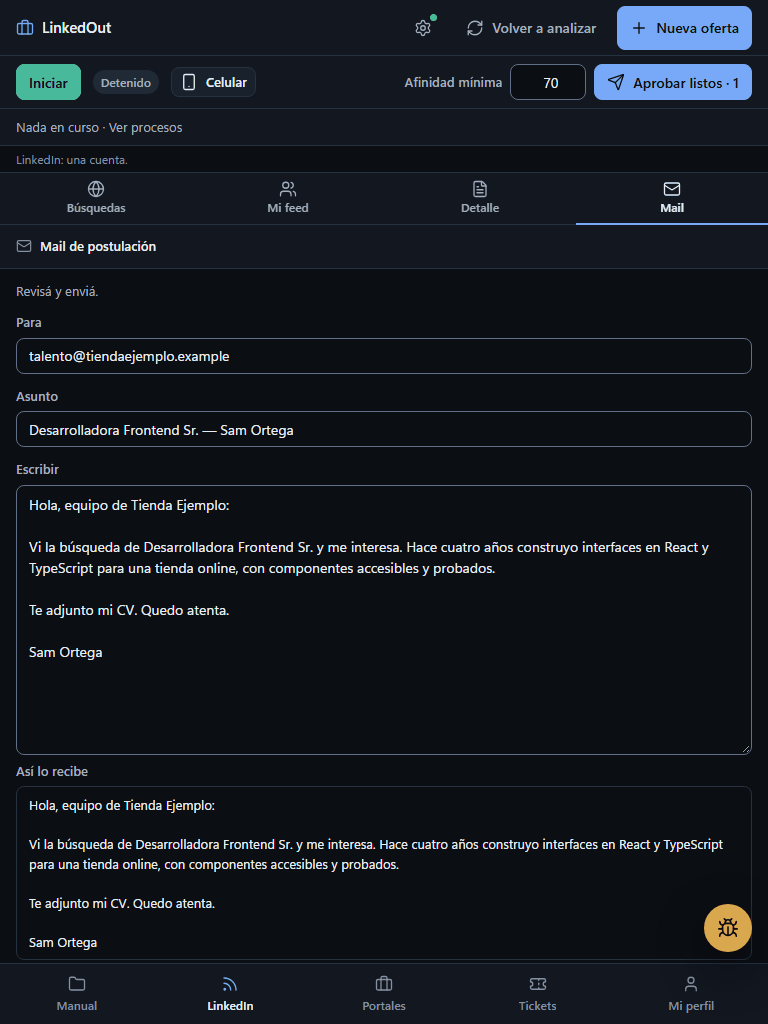
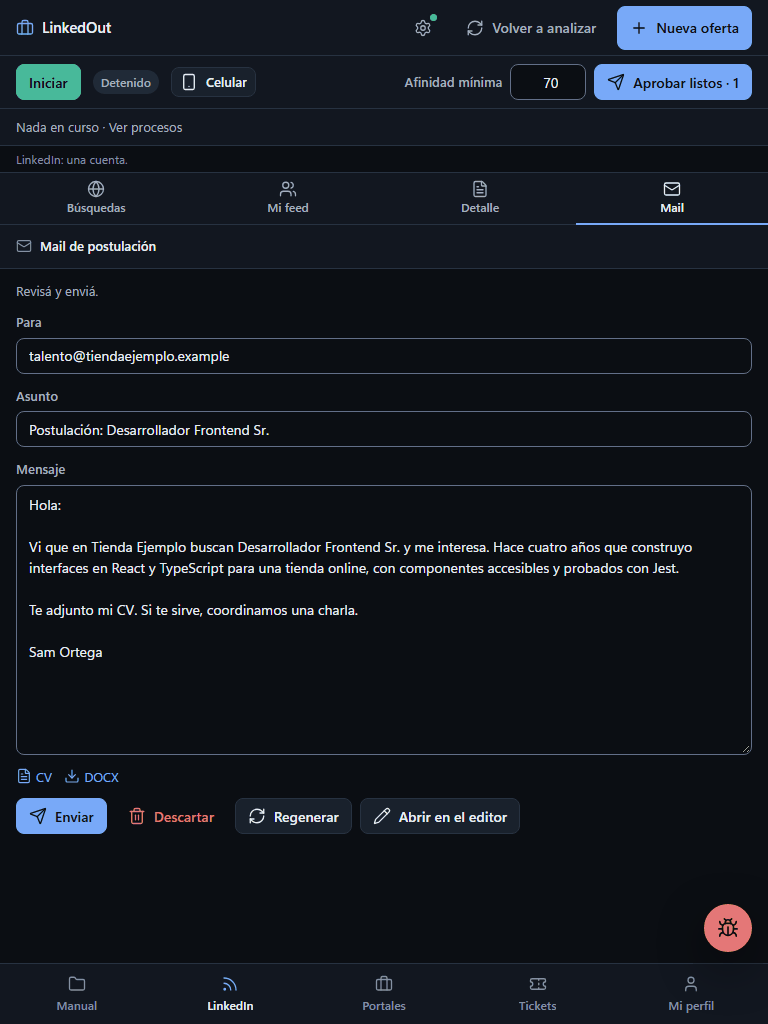
fix(ui): quita «Así lo recibe» y ajusta ejemplos

diff --git a/static/radar.js b/static/radar.js
@@ -2888,8 +2888,6 @@
     ocultar('radarDestinoCanalWrap', correo);
     const titulo = $('radarEmailTitulo');
     if (titulo) titulo.textContent = correo ? 'Mail de postulación' : 'Mensaje de postulación';
-    const etCuerpo = $('radarCuerpoLabel');
-    if (etCuerpo) etCuerpo.textContent = correo ? 'Escribir' : 'Mensaje';
     const destino = $('radarDestinoCanal');
     if (destino) {
       destino.textContent = `${iconoCanal(p.canal)} ${nombreCanal(p.canal)}` +
@@ -2942,7 +2940,6 @@
       $('radarEmailBody').value = p.email_body || '';
       S.revisionVista = { id: p.id, updated_at: p.updated_at };
     }
-    renderVistaPrevia(correo ? ($('radarEmailBody').value || '') : '');
     CAMPOS_EMAIL.forEach((id) => { $(id).disabled = !acc.editable; });
     renderCanal(p, correo);
 
@@ -3331,41 +3328,6 @@
   }
 
   /** Copia el texto actual del mensaje (tras guardar lo pendiente) al portapapeles. */
-  /** Vista previa del mail como lo recibe el reclutador: el teléfono de la firma linkeado a wa.me y la
-   *  línea «LinkedIn» al perfil (lo mismo que arma `email_html` al enviar). Solo DOM, sin innerHTML. */
-  function renderVistaPrevia(texto) {
-    const caja = $('radarEmailPreviewBox');
-    const destino = $('radarEmailPreview');
-    if (!caja || !destino) return;
-    destino.textContent = '';
-    caja.hidden = !texto;
-    if (!texto) return;
-    const f = S.estado.firma || {};
-    const sinBarra = (u) => String(u || '').trim().toLowerCase().replace(/^https?:\/\/(www\.)?/, '').replace(/\/+$/, '');
-    const link = (href, etiqueta) => {
-      const a = document.createElement('a');
-      a.href = href;
-      a.textContent = etiqueta;
-      a.target = '_blank';
-      a.rel = 'noopener noreferrer';
-      a.className = 'enlace';
-      return a;
-    };
-    texto.split('\n').forEach((linea, i) => {
-      if (i) destino.appendChild(document.createTextNode('\n'));
-      const limpia = linea.trim();
-      const esUrl = limpia.startsWith('http');
-      if (f.telefono && (limpia === f.telefono || (esUrl && sinBarra(limpia) === sinBarra(f.wa_me)))) {
-        destino.appendChild(link(f.wa_me, f.telefono));
-      } else if (f.linkedin && (limpia.toLowerCase() === String(f.etiqueta || 'LinkedIn').toLowerCase()
-                 || (esUrl && sinBarra(limpia) === sinBarra(f.linkedin)))) {
-        destino.appendChild(link(f.linkedin, f.etiqueta || 'LinkedIn'));
-      } else {
-        destino.appendChild(document.createTextNode(linea));
-      }
-    });
-  }
-
   async function copiarMensaje() {
     await flushEdicion();
     const texto = ($('radarEmailBody') || {}).value || '';
@@ -4204,10 +4166,7 @@
     // `input` (con debounce) además de `change`: Safari no siempre dispara `change` antes del clic en Aprobar
     ['input', 'change'].forEach((ev) => $('radarEmailTo').addEventListener(ev, (e) => programarEdicion('email_to', e.target.value)));
     $('radarEmailSubject').addEventListener('input', (e) => programarEdicion('email_subject', e.target.value));
-    $('radarEmailBody').addEventListener('input', (e) => {
-      programarEdicion('email_body', e.target.value);
-      renderVistaPrevia(S.detalle && esEmail(S.detalle) ? e.target.value : '');
-    });
+    $('radarEmailBody').addEventListener('input', (e) => programarEdicion('email_body', e.target.value));
 
     const conBoton = (id, fn) => $(id).addEventListener('click', (e) => ejecutar(e.currentTarget, () => fn()));
     conBoton('radarAprobarBtn', () => aprobar(false));
@@ -4350,7 +4309,7 @@
     onPostRemoved,
     onProgreso,
     mostrar,
-    _test: { S, textoAvisoPausa, filtrosActivos, quitarFiltro, postularIgual, marcarDescarte, enlazarEventos, desgloseAfinidad, resumenAfinidad, crearCard, ciclarRequisito, onProgreso, htmlProgreso, programarEdicion, flushEdicion, aprobar, aprobarTodos, datosAprobacion, idsMarcados, actualizarConteoAprobar, cerrarAprobar, pulsarFondoAprobar, clicFondoAprobar, descartar, restaurar, reintentar, marcarPostulado, abrirDestino, upsertCard, renderEmail, renderCanal, renderVistaPrevia, renderAvisoCuota, textoVacio, itemRevision, textoCola, renderCola, onPost, renderDetalle, lineaPasos, textoTopes, textoCuotaProceso, filaProceso, sembrarProgreso, abrirProcesos, cerrarProcesos, cargarProcesos, perteneceAlModo, aplicarModo, filaHistorial, cargarHistorial, cargarPosts, textoEstadoCv, alternarAnalisis, alternarGeneracion, renderInterruptores, alternarInterruptor, textoPausaBusquedas, levantarBloqueo },
+    _test: { S, textoAvisoPausa, filtrosActivos, quitarFiltro, postularIgual, marcarDescarte, enlazarEventos, desgloseAfinidad, resumenAfinidad, crearCard, ciclarRequisito, onProgreso, htmlProgreso, programarEdicion, flushEdicion, aprobar, aprobarTodos, datosAprobacion, idsMarcados, actualizarConteoAprobar, cerrarAprobar, pulsarFondoAprobar, clicFondoAprobar, descartar, restaurar, reintentar, marcarPostulado, abrirDestino, upsertCard, renderEmail, renderCanal, renderAvisoCuota, textoVacio, itemRevision, textoCola, renderCola, onPost, renderDetalle, lineaPasos, textoTopes, textoCuotaProceso, filaProceso, sembrarProgreso, abrirProcesos, cerrarProcesos, cargarProcesos, perteneceAlModo, aplicarModo, filaHistorial, cargarHistorial, cargarPosts, textoEstadoCv, alternarAnalisis, alternarGeneracion, renderInterruptores, alternarInterruptor, textoPausaBusquedas, levantarBloqueo },
     _portales: { modoDePost, coincidePortal, linkPostularSitio, logoPortal, botonPostularSitio, extrasDePortal },
     _util: { urlSegura, urlPublicacion, urlDestino, iconoCanal, nombreCanal, esEmail, accionesCanal, coincideFiltro, coincideAlcance, coincideCanal, etiquetaEstado, textoEstadoEmail, etiquetaAlcance, describirPill, accionesPara, mensajeDeDetalle, formatearCuenta, envioDudoso, textoPausaBusquedas },
   };

diff --git a/static/index.html b/static/index.html
@@ -719,12 +719,8 @@
               <input id="radarEmailSubject" type="text" class="input" />
             </div>
             <div class="field">
-              <label for="radarEmailBody" id="radarCuerpoLabel">Escribir</label>
+              <label for="radarEmailBody" id="radarCuerpoLabel">Mensaje</label>
               <textarea id="radarEmailBody" rows="12" class="textarea"></textarea>
-              <div id="radarEmailPreviewBox" hidden class="field">
-                <span class="label">Así lo recibe</span>
-                <div id="radarEmailPreview" class="vista-previa"></div>
-              </div>
             </div>
             <div class="mail-adjuntos">
               <a id="radarVerPdf" href="#" target="_blank" rel="noopener noreferrer" hidden title="CV adjunto (PDF)" class="enlace"><svg class="ico" aria-hidden="true"><use href="/static/iconos.svg#file-text"></use></svg>CV</a>
@@ -872,7 +868,7 @@
         <div id="form-manual" role="tabpanel" aria-labelledby="modalTab-manual" class="stack">
           <div class="field">
             <label for="nuevoTitulo">Puesto</label>
-            <input type="text" id="nuevoTitulo" placeholder="Ej. Desarrolladora frontend" class="input">
+            <input type="text" id="nuevoTitulo" placeholder="Ej. Desarrollador frontend" class="input">
           </div>
           <div class="field">
             <label for="nuevaEmpresa">Empresa</label>

diff --git a/static/css/radar.css b/static/css/radar.css
@@ -212,10 +212,6 @@ button.req-estado:hover { background: var(--bg-hover); }
 .mail-estado { margin: 0; line-height: var(--lh-normal); color: var(--text-secondary); }
 .mail-destino { margin: 0; color: var(--text-primary); overflow-wrap: anywhere; }
 .mail .textarea { min-height: 220px; }
-.vista-previa {
-  padding: var(--sp-2) var(--sp-3); border: 1px solid var(--border-subtle); border-radius: var(--radius-md);
-  background: var(--bg-canvas); white-space: pre-wrap; overflow-wrap: break-word; line-height: var(--lh-normal); color: var(--text-primary);
-}
 .mail-adjuntos { display: flex; flex-wrap: wrap; align-items: center; gap: var(--sp-2) var(--sp-3); }
 .mail-guardado { margin-left: auto; font-size: var(--fs-12); font-variant-numeric: tabular-nums; color: var(--text-muted); }
 .mail-acciones { display: flex; flex-wrap: wrap; align-items: center; gap: var(--sp-2); }

diff --git a/tools/capturas.py b/tools/capturas.py
@@ -89,7 +89,7 @@ def req(nombre, tipo, estado, justificacion):
             "justificacion": justificacion}
 
 OFERTAS = [
-    ("Desarrolladora Frontend Sr.", "Tienda Ejemplo", "LISTO", 86, "talento@tiendaejemplo.example", [
+    ("Desarrollador Frontend Sr.", "Tienda Ejemplo", "LISTO", 86, "talento@tiendaejemplo.example", [
         req("React", "REQUISITO_EXCLUYENTE", "MATCH_DIRECTO", "4 años en Estudio Ejemplo"),
         req("TypeScript", "REQUISITO_EXCLUYENTE", "MATCH_DIRECTO", "Componentes tipados"),
         req("Pruebas con Jest", "RESPONSABILIDAD", "MATCH_DIRECTO", "Componentes probados con Jest"),
@@ -101,10 +101,10 @@ OFERTAS = [
         req("PostgreSQL", "REQUISITO_EXCLUYENTE", "MATCH_DIRECTO", "Sitios de clientes"),
         req("Docker", "REQUISITO_DESEABLE", "BRECHA_REAL", "No figura")],
      ["Sumar a alguien que cubra front y back"]),
-    ("Desarrolladora Mobile Jr.", "Fintech Demo", "ENVIADO", 74, "jobs@fintechdemo.example", [
+    ("Mobile Developer Jr.", "Fintech Demo", "ENVIADO", 74, "jobs@fintechdemo.example", [
         req("React Native", "REQUISITO_EXCLUYENTE", "TRANSFERIBLE", "React en la web")],
      ["Primera app para celulares"]),
-    ("Diseñadora UX/UI", "Estudio Sur Ejemplo", "ANALIZADA", 64, "hola@estudiosur.example", [
+    ("Diseñador UX/UI", "Estudio Sur Ejemplo", "ANALIZADA", 64, "hola@estudiosur.example", [
         req("Figma", "REQUISITO_EXCLUYENTE", "MATCH_DIRECTO", "Maquetado desde Figma"),
         req("Investigación con usuarios", "REQUISITO_DESEABLE", "BRECHA_REAL", "No figura")],
      ["Ordenar el sistema de diseño"]),
@@ -123,17 +123,19 @@ for i, (puesto, empresa, estado, score, mail, requisitos, dolores) in enumerate(
         post_id = create_postulacion(puesto, empresa, texto, status="READY", origen="linkedin",
                                      radar_post_ref=f"urn:li:activity:{8100 + i}")
         update_postulacion(post_id, cv_markdown=CV, match_score=score, requisitos=json.dumps(requisitos))
-        campos.update(postulacion_id=post_id, email_to=mail, email_subject=f"{puesto} — Sam Ortega",
-                      email_body=(f"Hola, equipo de {empresa}:\n\nVi la búsqueda de {puesto} y me interesa. Hace "
-                                  "cuatro años construyo interfaces en React y TypeScript para una tienda online, "
-                                  "con componentes accesibles y probados.\n\nTe adjunto mi CV. Quedo atenta.\n\n"
-                                  "Sam Ortega"))
+        campos.update(postulacion_id=post_id, email_to=mail, email_subject=f"Postulación: {puesto}",
+                      email_body=(f"Hola:\n\nVi que en {empresa} buscan {puesto} y me interesa. Hace cuatro años "
+                                  "que construyo interfaces en React y TypeScript para una tienda online, con "
+                                  "componentes accesibles y probados con Jest.\n\nTe adjunto mi CV. Si te sirve, "
+                                  "coordinamos una charla.\n\nSam Ortega"))
     if estado == "ENVIADO":
         campos.update(sent_at="2026-11-18 10:30:00", aprobado_at="2026-11-18 10:29:00")
     radar_store.update_post(pid, **campos)
 # Una oferta cargada a mano (vista Manual y su editor), con análisis, revisión y CV
-manual = create_postulacion("Desarrolladora React (proyecto de 6 meses)", "Logística Ejemplo",
-                            "Buscamos Desarrolladora React para el panel de seguimiento de envíos.\n\nRequisitos:\n"
+manual = create_postulacion("Frontend Developer React", "Logística Ejemplo",
+                            "Buscamos Frontend Developer con React para el panel de seguimiento de envíos. "
+                            "Proyecto de 6 meses.\n\n"
+                            "Requisitos:\n"
                             "- React y TypeScript\n- Pruebas automatizadas\n- Deseable: mapas en la web",
                             status="READY", origen="manual")
 update_postulacion(manual, cv_markdown=CV, match_score=82,

diff --git a/core/radar_api.py b/core/radar_api.py
@@ -50,10 +50,8 @@ from core.descartes import motivos_descarte
 from core.strategist import calculate_match_score_with_breakdown
 from core.bridge import CUOTA, sondear_cuota
 from core.cv_guardas import FORMATOS_CV
-from core.email_composer import firma_links
 from core.mailer import load_gmail_config
 from core.paths import DATA_DIR
-from core.profile_parser import load_candidate_profile
 from core.radar import MOTIVO_NO_OFERTA, PRIORIDAD_FORZADA, pausa_busquedas
 from core.triage import ALCANCES, _senal_argentina
 
@@ -438,7 +436,7 @@ def _status(radar: Any = None) -> Dict[str, Any]:
     return {**radar_store.get_radar_state(), "gmail_configurado": gmail is not None,
             # Modo de prueba del mail (LINKEDOUT_MAIL_PRUEBA): solo si está activo, nunca la dirección
             "mail_prueba": bool(getattr(gmail, "mail_prueba", None)),
-            "revision_pendientes": revision_store.contar_pendientes(), "firma": _firma_links(),
+            "revision_pendientes": revision_store.contar_pendientes(),
             "agy_cuota": CUOTA.estado(), "cola": _cola(radar),
             "busquedas_pausa": _busquedas_pausa(radar), "cuentas": _cuentas(radar)}
 
@@ -464,14 +462,6 @@ def _cola(radar: Any) -> Dict[str, Any]:
     if actual and isinstance(etapas, dict) and etapas.get(actual["post_id"]):
         actual["etapa"] = etapas[actual["post_id"]]
     return cola
-
-
-def _firma_links() -> Dict[str, str]:
-    """Teléfono, wa.me y perfil de la firma: el panel muestra el mail como lo recibe el reclutador."""
-    try:
-        return firma_links(load_candidate_profile())
-    except Exception:
-        return {}
 
 
 def _get_post_or_404(post_id: int) -> Dict[str, Any]:

diff --git a/tests/test_radar_ui.py b/tests/test_radar_ui.py
@@ -1227,21 +1227,6 @@ def test_discard_asks_confirmation_on_the_same_button_and_expires():
     assert out["tras3"] == []  # tras vencer, el clic vuelve a pedir confirmación
 
 
-@requiere_node
-def test_vista_previa_linkea_telefono_y_linkedin_de_la_firma():
-    out = _node(NODE_DOM_FALSO + """
-T.S.estado.firma = { telefono: '+54 9 11 0000-0000', wa_me: 'https://wa.me/5491100000000',
-                     linkedin: 'https://www.linkedin.com/in/ana/', etiqueta: 'LinkedIn' };
-T.renderVistaPrevia('Hola\\n\\nAna\\n+54 9 11 0000-0000\\nLinkedin');
-const hijos = nodos.radarEmailPreview.children;
-const links = hijos.filter((h) => h.href).map((h) => [h.href, h.textContent]);
-console.log(JSON.stringify({ visible: !nodos.radarEmailPreviewBox.hidden, links }));
-""")
-    assert out["visible"] is True
-    assert out["links"] == [["https://wa.me/5491100000000", "+54 9 11 0000-0000"],
-                            ["https://www.linkedin.com/in/ana/", "LinkedIn"]]
-
-
 def test_radar_hidden_attribute_wins_over_tailwind_display_utilities():
     # Un aviso con class="flex" y hidden se veía siempre ("Sin cuota de AGY" con cuota disponible).
     # Rediseño E5: la regla vive en radar.css y base.css la extiende a toda la página.

diff --git a/core/email_composer.py b/core/email_composer.py
@@ -245,12 +245,6 @@ def email_texto_plano(body: str, profile: Dict[str, Any]) -> str:
                      for l in str(body or "").split("\n"))
 
 
-def firma_links(profile: Dict[str, Any]) -> Dict[str, str]:
-    """Teléfono, link wa.me y URL del perfil de la firma (para la vista previa del panel)."""
-    tel, url = _telefono_y_linkedin(profile)
-    return {"telefono": tel, "wa_me": _wa_me(tel) if tel else "", "linkedin": url, "etiqueta": ETIQUETA_LINKEDIN}
-
-
 # --------------------------------------------------------------------------- voz del candidato
 
 def _cargar_voz() -> Dict[str, str]:

diff --git a/README.md b/README.md
@@ -3,14 +3,15 @@
 Asistente para buscar trabajo, en tu PC. Encuentra ofertas, las compara con tu experiencia y te prepara un CV y un mail
 para cada una. Vos revisás y decidís qué se envía.
 
-![LinkedOut en la computadora](docs/capturas/linkedin-1280.png)
+<p align="center">
+  <img src="docs/capturas/linkedin-1280.png" alt="LinkedOut en la computadora" width="620">
+  <img src="docs/capturas/linkedin-lista-390.png" alt="LinkedOut en el celular" width="180">
+</p>
 
 ## Cómo
 
 1. **Busca:** lee LinkedIn y portales de empleo con tus búsquedas.
 2. **Analiza:** marca qué requisitos cumplís, cuáles son transferibles y cuáles faltan.
 3. **Prepara:** arma el CV y el mail a medida con IA.
-
-<p align="center"><img src="docs/capturas/linkedin-lista-390.png" alt="LinkedOut en el celular" width="300"></p>
 
 Instalación y uso: [docs/uso.md](docs/uso.md) · Licencia [MIT](LICENSE)
